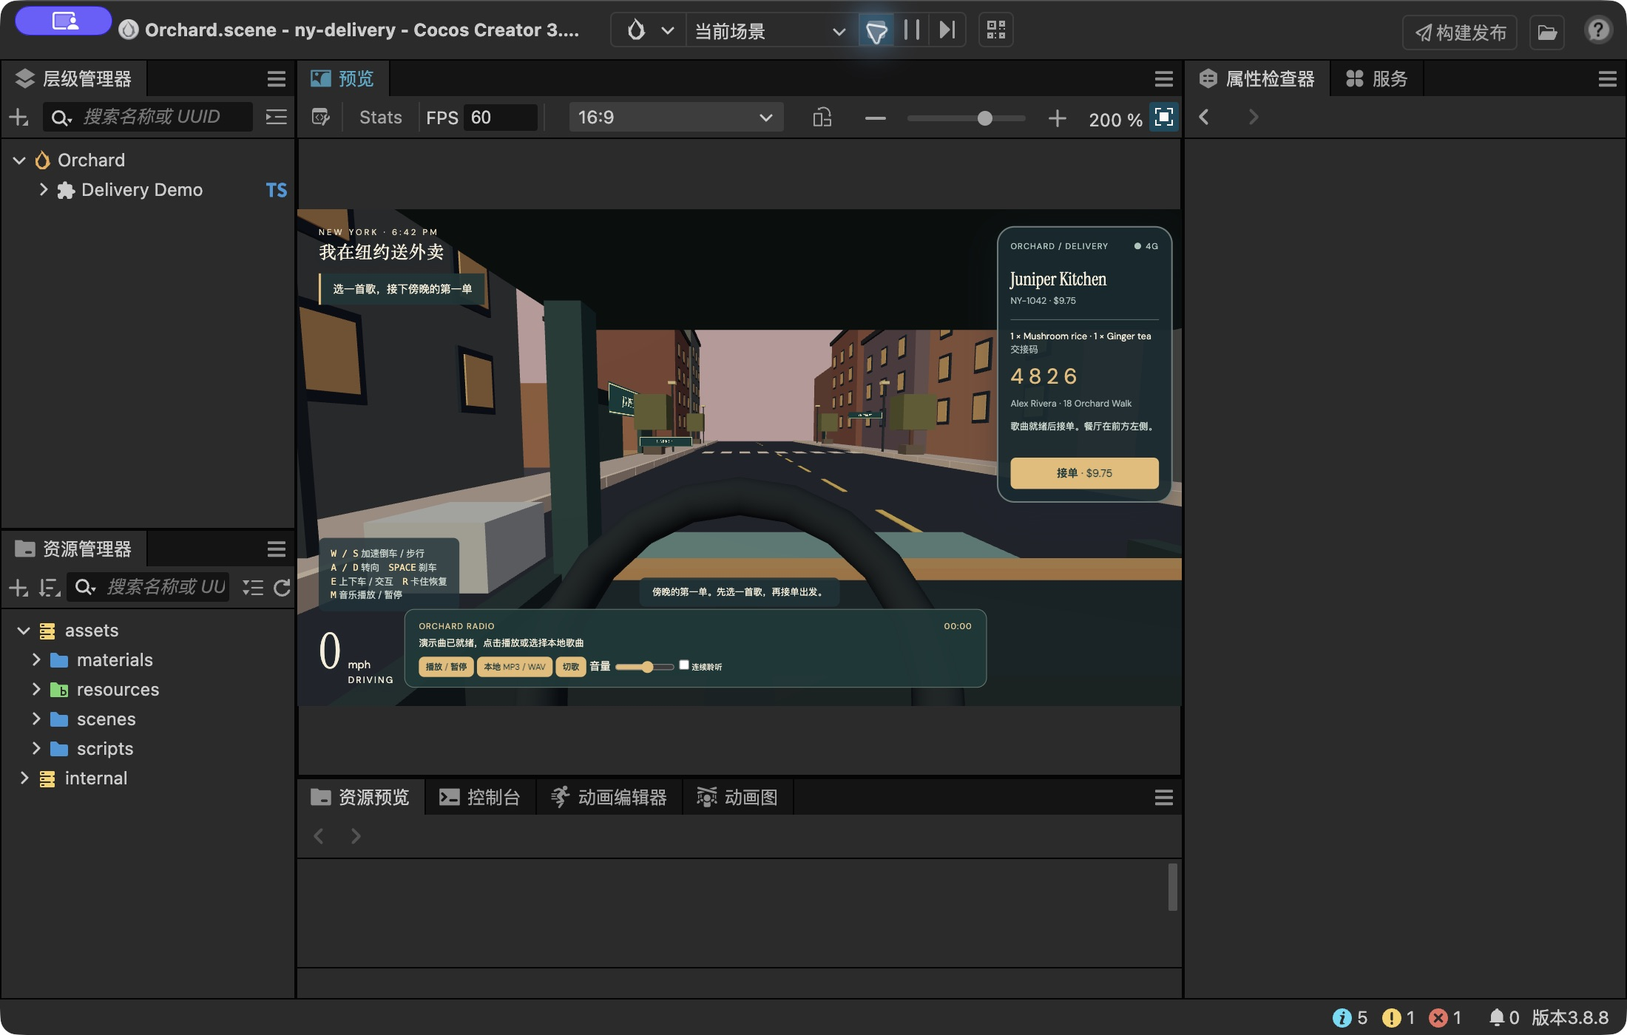
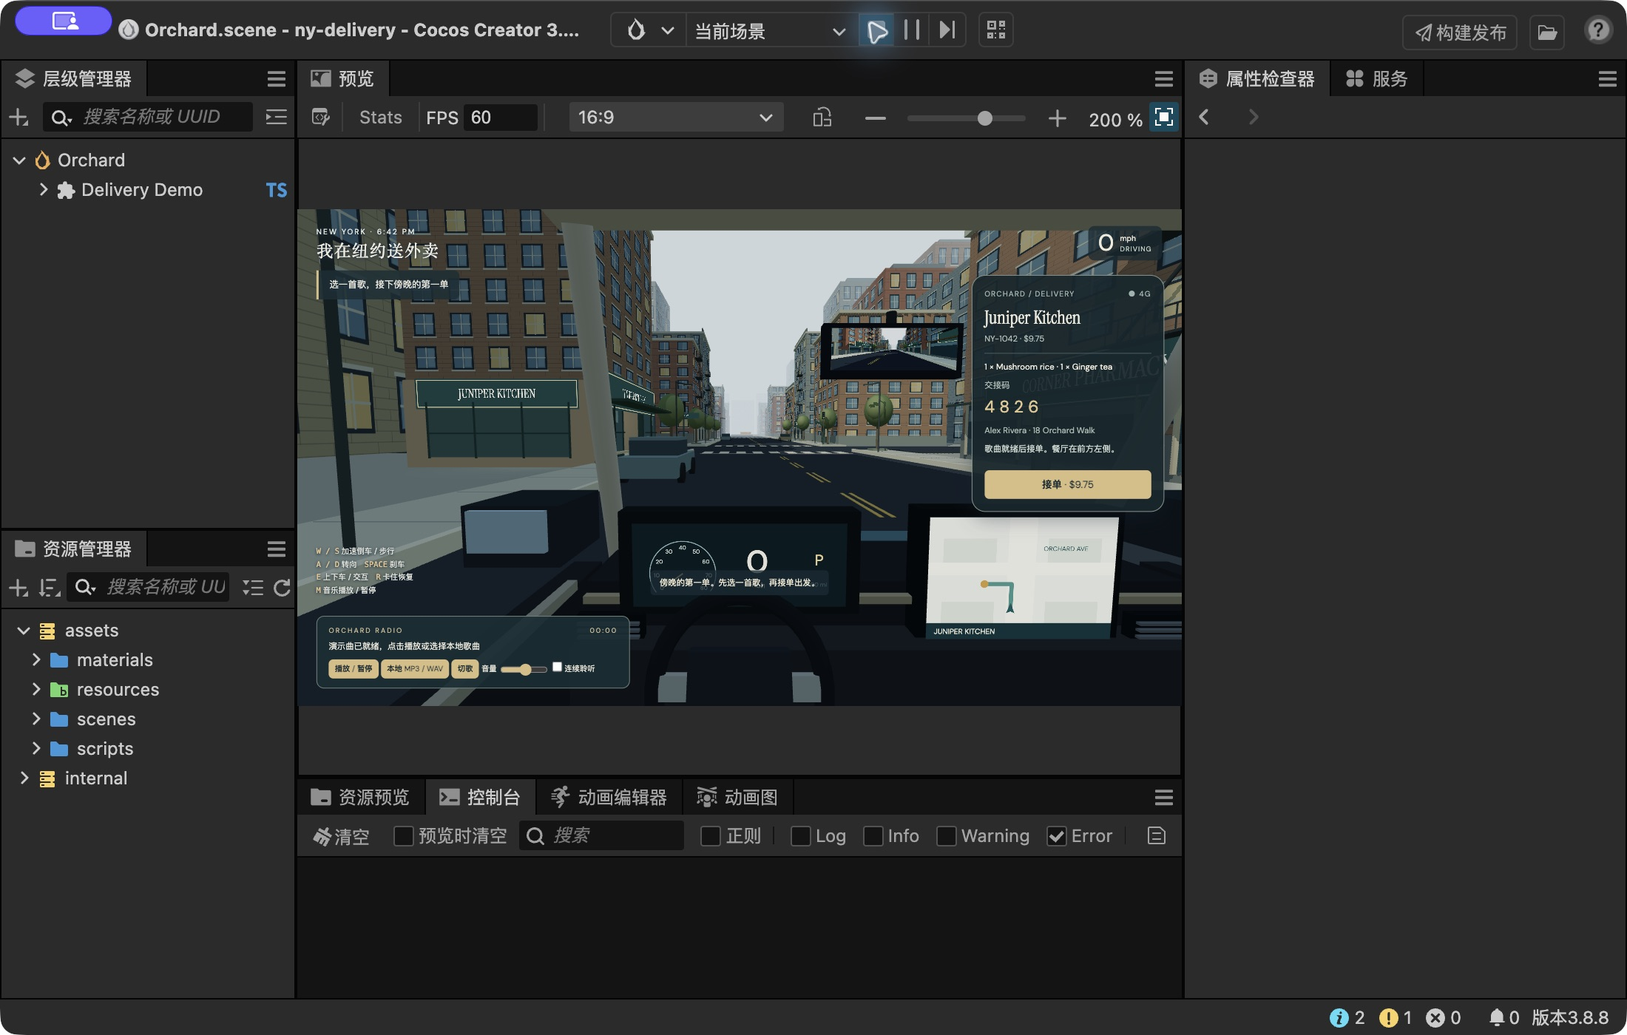
docs: record visual upgrade and playable validation

diff --git a/docs/VALIDATION.md b/docs/VALIDATION.md
@@ -2,89 +2,89 @@
 
 ## 当前结论
 
-2026-11-14 发布构建已实际完成第一单，v0.1 其余验收仍在进行。此记录区分自动测试、Creator 导入构建与实际操作。
+2026-11-14 已完成本机安装绕行、Cocos 工程、发布版送单复测和实机媒体。发布构建在同一运行实例中连续完成两单，第二单为 $9.75、196 m、105 s，包含一次驶过目的地后倒车返回。交付后再次按 E，收入和本单计时保持原值。
 
-## 设备和运行环境
+送单及音频复测使用 5f1a690。后续 c4120c8 修正编辑器后视摄像机目标窗口，并缩小手机面板，编辑器实际预览已验证。
 
-- Apple M2 Pro、16 GiB 内存、arm64，macOS 26.5.2 build 25F84。
-- Cocos Creator 3.8.8，官方完整包 build 121518。实际使用路径为 ~/Applications/Cocos-3.8.8/CocosCreator.app。
-- Brave 157.1.99.55，本机 HTTP 发布构建。测试视口 1512 × 833，devicePixelRatio 为 2。
-- 构建物理后端在 src/settings.json 中为 physics-ammo，运行日志标识 Bullet。车辆和步行使用运动学位移及轴对齐障碍区域，车辆与步行分别维护输入与位置。
+## 设备与运行入口
 
-## 自动检查
+- Apple M2 Pro、16 GiB、arm64，macOS 26.5.2 build 25F84。
+- Cocos Creator 3.8.8，官方完整包 build 121518，安装于 ~/Applications/Cocos-3.8.8/CocosCreator.app。
+- Brave 157.1.99.55，本机 HTTP 发布构建。主要复测视口为 1512 × 778，DPR 2。
+- 编辑器内预览采用 16:9、最佳显示比例 200%，诊断画布为 598 × 336、DPR 2。
+- 构建物理后端为 physics-ammo，日志标识 Bullet。汽车与步行采用各自控制器及水平几何障碍检查。
+- 本机主试玩地址为 http://127.0.0.1:7457/，服务由 scripts/serve.py 提供。终端前台运行时按 Ctrl+C 停止。
 
-- npm test 和 npm run test:coverage 已运行，6 个测试通过。
-- OrderState.ts 与 VehicleController.ts 在当前针对性测试中的行、分支和函数覆盖均为 100%。覆盖范围只包含这两个真实业务模块。
-- 已覆盖订单首次接单、重复接单、取餐前置状态、错误核码、重复取餐、装袋前置状态、重复装袋、重复结算、重新开始、替换交接码和收入、无效时间输入。
-- 已覆盖厨房和队列独立推进、离开队列保留进度、车辆加速刹停、障碍碰撞、行驶中拒绝下车、驾驶侧受阻时选择副驾驶侧，以及全部落点受阻时拒绝下车。
-- 补充送达前必须从车中取袋的状态限制，下车自动把餐袋放到手中。该修正的真实业务回归测试通过，当前修正版的完整送单待界面控制恢复后复测。
-- 使用当前 Creator 自带 TypeScript 编译器检查真实 cc 声明，类型检查通过。npm run doctor 检查本机版本、origin 和资源 .meta 完整性通过。
+## 自动检查与干净导入
 
-## 工程与构建
+- npm test 的 6 个真实业务模块测试通过。覆盖订单状态、错误核码、幂等取餐和结算、重开、独立队列/厨房、车辆刹停与安全下车落点。
+- npm run test:coverage 已运行，OrderState.ts 与 VehicleController.ts 的针对性行、分支和函数覆盖为 100%。
+- 使用 Creator 自带 TypeScript 编译器和真实 cc 声明进行类型检查，通过。
+- npm run doctor 已核对 Creator、origin、工程版本与资源 .meta 完整性。
+- Creator 正式 Web Desktop 构建返回 36，检查 index.html、application.js 和真实启动场景配置。
+- 5f1a690 的 .local/visual-final 从无 library、temp、node_modules 的独立工作树重新导入并构建，返回 36。构建后的 Git 状态干净。
+- 该工作树产物在 127.0.0.1:7459 实际打开，车厢、楼群、仪表、导航与后视画面均显示，浏览器日志没有 warning 或 error。验证页完成后关闭。
+- c4120c8 的 .local/visual-verified 也从无生成缓存的工作树重新导入构建，返回 36，Git 状态干净。
+- c4120c8 干净工作树产物在 127.0.0.1:7460 实际打开，显示三维车厢、实时仪表、导航与后视画面，浏览器日志没有 warning 或 error，验证页随后关闭。
 
-- Creator UI 实际打开 game，显示 Orchard.scene、Delivery Demo 节点与 TypeScript 绑定。
-- 资源导入完成，所有 assets 文件与目录均有对应 .meta。
-- 通过正式 Creator 命令行进行 Web Desktop 构建，成功退出码 36，检查 index.html、application.js 与 src/settings.json。
-- Python HTTP 服务在 127.0.0.1:7457 提供发布构建，浏览器显示真实 Cocos 3D 车厢、街道和餐厅。
-- 首次构建发现运行时创建材质未被构建依赖收录，已改为场景显式引用 Surface 与 Sign 材质，再由运行时复制。修复后实际 3D 场景运行通过。
-- 从 668c325 建立独立干净工作树 .local/clean-final，初始没有 library、temp 或 node_modules。实际重新导入和构建返回 36，构建后 Git 工作树仍干净。发布产物通过独立 HTTP 服务 127.0.0.1:7458 提供，浏览器运行复验待界面控制恢复。
-- Creator 内置“编辑器预览”已实际运行。首次使用旧窗口的内存场景时材质引用为空，关闭旧窗口并从 Dashboard 重新打开后，Surface.mtl 与 Sign.mtl 绑定正确。
-- 实测发现编辑器预览输入转发和小视口布局问题，已把键盘接入 Cocos Input，将手机等界面按真实画布区域缩放。重新导入脚本后，在编辑器预览内完成音乐播放、接单、W 驾驶、空格刹停、E 下车。F3 显示位置从起点 z=23 变化至约 z=14.24，模式切换为 ON FOOT，音乐时间持续前进。
-- 预览已恢复至起点，选择 16:9 与“最佳显示比例”，供用户直接体验。实际截图保存在 docs/media/cocos-editor-preview.jpg。
-- 干净工作树产物的浏览器实际运行尚待完成。
+## 实际送单与交互
 
-## 发布构建实际操作
+- 演示曲播放、接单、W 驾驶、空格刹停、E 下车、步行进店、排队、核码、拿袋、装车、再次上车、驾驶、下车取袋、步行交付与结算均已操作。
+- 同一实例点击“开始下一单”后，回到驾驶起点，订单恢复未接单，餐袋与交付结果清除，音乐继续播放。随后完成第二单。
+- 队列和厨房结束后输入 0000，取餐失败。离开柜台再回来，队列和厨房仍为完成状态。输入 4826 后成功取餐。
+- 等餐快进按钮只推进订单状态，歌曲时间继续按真实速度前进。
+- 送达下车后状态自动变为携袋交付，第二单实际确认该流程。
+- 第二单实际观察到 27 mph 行驶，刹停、倒车返回、再次停车、下车和绕过车头步行。
+- 最新发布版实际泊车至 x=-3.00、z=10.96、yaw=0.8°，驾驶侧被路边车辆占用。按 E 后落点为副驾驶侧 x=-1.10、z=10.94，状态变为 ON FOOT。
+- 最新发布版转向及回正后，直行撞向施工围挡，在 z=-144.47 停住、速度为 0。R 恢复入口再次使用。
+- 较早发布版已实际验证行驶中拒绝下车、R 恢复保留订单和音乐、重复交付保持 $9.75。
+- 修复点击手机按钮后的焦点，接单、取餐与上车按钮执行后，document.activeElement 实际回到 CANVAS，接续驾驶有效。
+- 修复本单计时在交付后继续增长的问题，第二单结算后多次观察仍为 105 s。
 
-### 第一单
+## 音乐实际操作
 
-已完成演示曲播放、接单、汽车驾驶、刹停、下车、步行进店、加入队列、核码取餐、回车装袋、再次驾驶、下车步行至送达门口和结算。
+使用演示曲的本机副本测试，文件留在 .local/audio-check。
 
-实测最终结果为 NY-1042、收入 $9.75、仪表行程 105 m、游戏本单计时 133 s。过程包含一次卡住恢复测试。重复按 E 交付后收入仍为 $9.75。
+- 通过系统文件选择窗口选择 MP3，再重新选择 WAV，两者均播放并显示对应文件名。
+- 取消选择窗口后，显示取消反馈，当前歌曲继续播放。
+- 选择 30 字节的坏 WAV，显示“无法播放该文件”，诊断为 paused。点击切歌后回到演示曲并正常播放。
+- 上下车、步行、取餐和重新开始期间使用同一播放时间线。96 秒演示曲按循环回绕。
+- 车内稳定增益为 0.550，柜台/门口车外约 0.11—0.15。导航提示期间短暂降低，随后恢复。
+- 车外勾选连续聆听并把音量改成 0.35，稳定增益为 0.350。关闭连续聆听、恢复音量 0.55 后，距离衰减增益约为 0.145。
+- 播放、暂停、切歌和重新选择均已操作。MusicPlayer 只有一个持久 HTMLAudioElement，原声录像包含音乐与交互提示音。
 
-### 已操作验证的边界
+## 画面与编辑器预览
 
-- 行驶时按 E 提示先刹停，模式保持驾驶。
-- 刹停后下车，模式切换为步行，车辆速度归零。
-- 按 R 恢复至起点，订单已接单状态与音乐时间保留。
-- 餐厅排队后输入 0000，无法取餐。队列与厨房完成后仍使用错误码重试，订单保持未取餐。
-- 离开餐厅再返回，队列与厨房均保持完成状态。
-- 输入 4826 后取餐，回车按 E 装袋，再按 E 上车。
-- 驾驶、步行、装袋和再次上车期间，播放器时间连续从约 29 s、45 s、62 s 到 76 s。
-- 车内音乐稳定增益为 0.550，柜台附近约 0.110。导航提示触发时增益降低，随后恢复。最终音频增益路径修正后还需再次检查。
+- 相机背景改为蓝灰色，加入天空渐变、雾化远景、连续道路与多层楼群。可活动街道约 300 m，两端设置施工围挡，围挡后继续保留城市景观。
+- 原创车身、圆轮、内饰、通风口、方向盘、实时 mph 仪表、中控路线与真实后视摄像机已加入。
+- 楼面增加砖墙窗框、店面招牌、消防梯、路灯、树池与路边车辆。餐厅加入楼上体量、店面窗框、格子地面、吊灯、柜台与纸杯。
+- 实测发现长路面受到逐顶点雾效影响而整体发白，已分段生成路面和人行道，发布版恢复深色沥青。
+- 餐厅入口树池调整至门侧，直行进店已通过。送达门牌移至雨棚前沿，地址完整显示。
+- 编辑器内后视镜曾为黑屏。核查 3.8.8 安装包代码，原生预览会重定向场景摄像机的渲染窗口。现对后视摄像机保留其 RenderTexture 目标，编辑器内实际显示后方街景。
+- 最新编辑器预览实际完成音乐播放、接单、驾驶、刹停、下车和再次上车。诊断位置从 z=23 移至约 z=18.76。
 
-### 当前待完成
-
-- 点击开始下一单并在同一运行实例中完成第二单，包括下车从车中取袋的修正版流程。
-- 实际障碍旁下车、全部落点受阻和车辆转向手感复测，当前自动测试已有安全落点覆盖。
-- 浏览器本地 MP3/WAV 选择、取消、坏文件与重新选择。
-- 连续聆听开关、切歌、音量调整与单播放器声音复测。
-- 招牌 Canvas 贴图垂直方向修正后的画面复测。
+人物、车窗与停放车辆仍使用简化几何。长时间驾驶、更多硬件和浏览器、移动端与原生发布平台尚待测试。
 
 ## 性能
 
-发布构建在车内、餐厅和送达点的实际诊断读数约 59.9—60.0 FPS，最近 600 帧的 p95 约 17.4—17.6 ms。样本视口为 1512 × 833、DPR 2，包含屏幕截图和自动界面操作期间。
+细化后的发布版单独运行，送单过程稳定诊断约 59.9—60.0 FPS，最近 600 帧 p95 约 17.5—17.7 ms。录屏、界面操作和远处围挡复测期间观察到约 57.2—59.4 FPS、p95 约 20.7—26.2 ms。
 
-冷启动时间、长时间运行、其他浏览器、移动端、原生平台与其他硬件尚未测试。
+编辑器预览短测约 58.5—59.5 FPS，p95 约 17.6—18.1 ms。上述读数分别来自实际显示的 F3 诊断，样本视口见设备记录。
 
-## 截图和录屏
+## 截图与有声录屏
 
-当前已保存一张真实 Cocos 编辑器内运行截图至 docs/media/cocos-editor-preview.jpg。指定的三张发布构建截图和有声录屏仍待补齐。
+- docs/media/cockpit-refined.jpg，发布构建车内视角。
+- docs/media/restaurant-refined.jpg，柜台核验与餐袋。
+- docs/media/destination-refined.jpg，送达门牌及第二单结算。
+- docs/media/cocos-editor-preview.jpg，编辑器内实际预览。
+- .local/media/delivery-v01.mp4，65.015 秒连续实机录像，1328 × 684、H.264、AAC，约 4.0 MB。展示驾驶停车、下车进店、错误核码、正确取餐及回车装袋。
 
-ScreenCaptureKit 录屏脚本已编译，首次试录报告当前可见窗口中未找到 NY Delivery。随后尝试定位 Brave 前台窗口时，Computer Use 因当前浏览器页面访问限制终止界面控制。已请用户将前台页切至本机样片，等待继续。当前尚无已验证的带声音录屏。
+录屏通过 ScreenCaptureKit 捕获游戏窗口与应用声音。Swift 入口初始化 NSApplication 后录制成功。成片保留原有时间顺序，截取连续 65 秒并裁去浏览器工具栏与空白边缘。ffprobe 确认视频和音轨，声音检测平均约 -37.9 dB、峰值约 -14.4 dB。录制时 capturesAudio 为 true，captureMicrophone 为 false。
 
-录屏使用系统 ScreenCaptureKit 的 capturesAudio，目标为真实游戏窗口和应用音频。大文件保留在本机 .local/media，后续检查视频时长、音轨和声音有效电平。
+视频保留在本机忽略目录 .local/media，三张小型 JPEG 截图入库。
 
-### 恢复录屏的入口
+## 剩余复测
 
-先在浏览器中将本机样片切为前台页。完成一单的步骤见 README，三张截图分别在驾驶位、柜台核验与送达门口拍摄。
-
-从仓库根目录运行以下命令，开始后在游戏中操作 75 秒。录屏脚本需要 macOS 15+ 和系统屏幕录制权限。
-
-```bash
-mkdir -p .local/media
-swiftc -parse-as-library scripts/record-window.swift -o .local/record-window
-.local/record-window .local/media/delivery-v0.1.mp4 75 "NY Delivery"
-ffprobe -v error -show_entries format=duration:stream=codec_type,codec_name .local/media/delivery-v0.1.mp4
-```
-
-该命令已完成编译验证，当前尚未成功录得游戏视频。浏览器前台标题必须包含 NY Delivery，目标不可见时脚本明确失败。
+- 全部下车落点同时受阻的组合已通过真实模块测试，实机场景中的该组合尚待补测。
+- 冷启动耗时、长时间稳定性及更多本地音频编码格式尚待测试。
+- Dashboard 原始在线下载流程仍按已验证绕行记录，详情见 ENVIRONMENT.md。

diff --git a/docs/ASSETS.md b/docs/ASSETS.md
@@ -2,8 +2,8 @@
 
 ## 自制内容
 
-- 街道、建筑、汽车内饰、柜台、人物、餐袋与门口均由 World.ts 使用 Cocos 几何体在运行时生成。比例单位为米，固定傍晚配色。自制几何与配色可在本项目及衍生作品中使用、修改与分发。
-- 招牌贴图由浏览器 Canvas 以自制文字与配色生成。餐厅、顾客、地址及订单为虚构内容。
+- World.ts 生成街道、建筑、柜台、人物、餐袋与门口。CarModel.ts 生成自制轿车车身、圆形车轮、车厢、方向盘、仪表和中控。ModelGeometry.ts 复用网格、材质，并按材质合并静态几何。比例单位为米，固定傍晚配色。自制几何与配色可在本项目及衍生作品中使用、修改与分发。
+- 招牌、砖墙窗框、仪表、导航与天空渐变由浏览器 Canvas 绘制。仪表与导航读取真实车辆和订单状态，后视镜使用当前场景的 RenderTexture 摄像机。餐厅、顾客、地址及订单为虚构内容。
 - Evening on Orchard 是本轮编写 scripts/generate-music.py 生成的原创合成演示音乐，96 秒循环，MP3 96 kbps。和弦、旋律与音色均由脚本生成。该曲及生成脚本中的音乐素材按 CC0-1.0 提供，可公开分发与修改。来源为本仓库，使用条件见 [CC0 1.0](https://creativecommons.org/publicdomain/zero/1.0/)。
 - 交互提示音为 MusicPlayer.ts 中实时合成的短正弦音，同样按 CC0-1.0 提供。
 - 玩家选取的本地文件通过 File 与 blob URL 在浏览器内播放。程序无上传流程，文件不加入工程资源和 Git。
@@ -20,6 +20,10 @@
 
 材质引用当前引擎自带 builtin-standard 和 builtin-unlit，几何 API 为 Cocos primitives。引擎内置资源遵循 Cocos 自身的许可与发布条款。工程保留默认 Cocos 启动画面。
 
+## 视觉参考
+
+用户指定《网约车：接单人生》的公开截图，用于参考驾驶舱层次、仪表与导航布局、街景纵深。本项目的几何、界面与贴图由上述模块自制。参考页面为 [TapTap 游戏详情](https://www.taptap.cn/app/995770?os=android)。
+
 ## 运行证据
 
-docs/media 仅收录当前 Cocos 发布构建的实机截图。录屏保留在本机 .local/media，完成情况与声音轨检查结果见 VALIDATION.md。
+docs/media 保存 Cocos 发布构建及编辑器预览的实机截图。录屏保留在本机 .local/media，完成情况与声音轨检查结果见 VALIDATION.md。

diff --git a/README.md b/README.md
@@ -4,6 +4,10 @@
 
 汽车样片包含一段傍晚街道、带内饰的汽车、餐厅排队取餐、音乐与送达结算。首个平台为电脑 Web Desktop。当前验收状态见 [验证记录](docs/VALIDATION.md)。
 
+驾驶舱有实时 mph 仪表、中控导航与后视画面。街道延续至远处楼群，当前可活动路段约 300 m。
+
+![发布版驾驶舱实机画面](docs/media/cockpit-refined.jpg)
+
 ## 打开工程
 
 安装 Cocos Creator **3.8.8**，在 Dashboard 中添加本地版本，再打开本仓库的 game 目录。
@@ -15,6 +19,8 @@ python3 scripts/open-editor.py
 ```
 
 这个入口使用该版本支持的离线打开参数。场景中的 Delivery Demo 组件在运行时生成街区与车厢，点击编辑器顶部播放按钮预览。
+
+本机已下载并验证官方完整编辑器包，已通过 Dashboard 添加本地 Creator 3.8.8，并导入 game 工程。
 
 ## 在 Cocos 编辑器里试玩
 
@@ -64,6 +70,8 @@ python3 scripts/serve.py --directory "/path/to/output/web-desktop" --port 8080
 6. 停车下车，走到门口按 E 交付，查看 $9.75 结算。点击“开始下一单”重开。
 
 M 控制播放与暂停。R 将人和车恢复至起点安全位置，保留订单和歌曲进度。F3 显示坐标、帧率与音频诊断。车外音乐默认随距离衰减，可勾选连续聆听。
+
+同一运行实例已连续完成两单。三张发布版截图保存在 docs/media，本机 65 秒有声录像保存在 .local/media/delivery-v01.mp4，具体证据与剩余复测见验证记录。
 
 驾驶采用简化运动学模型与几何障碍碰撞。当前构建物理后端为 Cocos Bullet / Ammo，车辆与步行位置由各自控制器维护。
 

diff --git a/docs/PLAN.md b/docs/PLAN.md
@@ -21,6 +21,7 @@
 | WalkingController | 步行、转身、障碍检查与进出车辆 | 两种载具共享 |
 | MusicPlayer | 单播放器、浏览器本地选歌、距离音量与导航压低 | 两种载具共享 |
 | DeliveryDemo / World | Cocos 场景、交互距离、手机和仪表 | 扩展餐厅与路线 |
+| CarModel / ModelGeometry | 车厢、真实仪表与导航、后视摄像机、复用网格和静态合批 | 扩展载具与街景 |
 
 原型先采用运动学车辆与水平障碍碰撞，重点检查低速转弯和停车。实现与选定物理后端以验证文档为准。
 
@@ -49,7 +50,7 @@
 
 ## 当前进度
 
-2026-11-14 已验证本机与空远端，main 基线已推送。Dashboard 下载失败在原入口复现，官方 3.8.8 完整包已验证并独立安装，真实发布构建已完成第一单。干净工作树重新导入与构建通过。Draft PR 为 #1。第二单、完整音频边界与最终媒体验收仍待完成，精确状态以 VALIDATION.md 为准。
+2026-11-14 已验证本机与空远端，main 基线已推送。Dashboard 下载失败在原入口复现，官方 3.8.8 完整包已验证并独立安装，已通过 Dashboard 导入本地编辑器与 game。发布构建已在同一实例中连续完成两单，本地音频选择与错误恢复已实测。三张发布版截图及 65 秒有声录屏已保存。完成驾驶舱细化、连续街景与远景雾效，当前可活动街道约 300 m。干净工作树重新导入、构建与浏览器运行通过。障碍旁改用副驾驶侧下车、围挡碰撞和恢复入口已实测。Draft PR 为 #1，进一步复测状态见 VALIDATION.md。
 
 ## 参考附件
 

diff --git a/CHANGELOG.md b/CHANGELOG.md
@@ -10,6 +10,10 @@
 - 加入独立队列与厨房状态、交接码核验、餐袋装车、送达结算与重开订单。
 - 加入单一持续音乐播放器、本地 MP3/WAV 选曲、音量、切歌、距离衰减、连续聆听与导航压低。
 - 加入统一低多边形街道、餐厅、取餐人物、送达门口与手机 UI。
-- 发布构建已实际完成第一单，更多验收与媒体状态见 docs/VALIDATION.md。
+- 发布构建已在同一实例中连续完成两单，更多验收与媒体状态见 docs/VALIDATION.md。
 - 干净工作树重新导入和构建通过。6 个关键逻辑测试通过，补充送达下车自动取袋与防止留袋交付的状态限制。
 - 完成 Dashboard 本地编辑器与工程导入，实测 Cocos 编辑器内预览，修复预览按键转发与小视口界面裁切。
+- 参考用户指定的驾驶游戏，细化轿车、车厢、方向盘、实时 mph 仪表、中控导航与后视摄像机。
+- 替换粉色背景，增加蓝灰天空、连续街道、多个街区的建筑与雾化远景，细化店面、消防梯、路灯和路边设施。
+- 修正长路面顶点雾效发白、餐厅入口树池遮挡、门牌雨棚遮挡和 HUD 操作后的键盘焦点。
+- 补齐三张发布构建截图和 65 秒带原声实机录屏，验证 MP3/WAV、本地选歌取消、坏文件恢复、连续聆听及音量。
